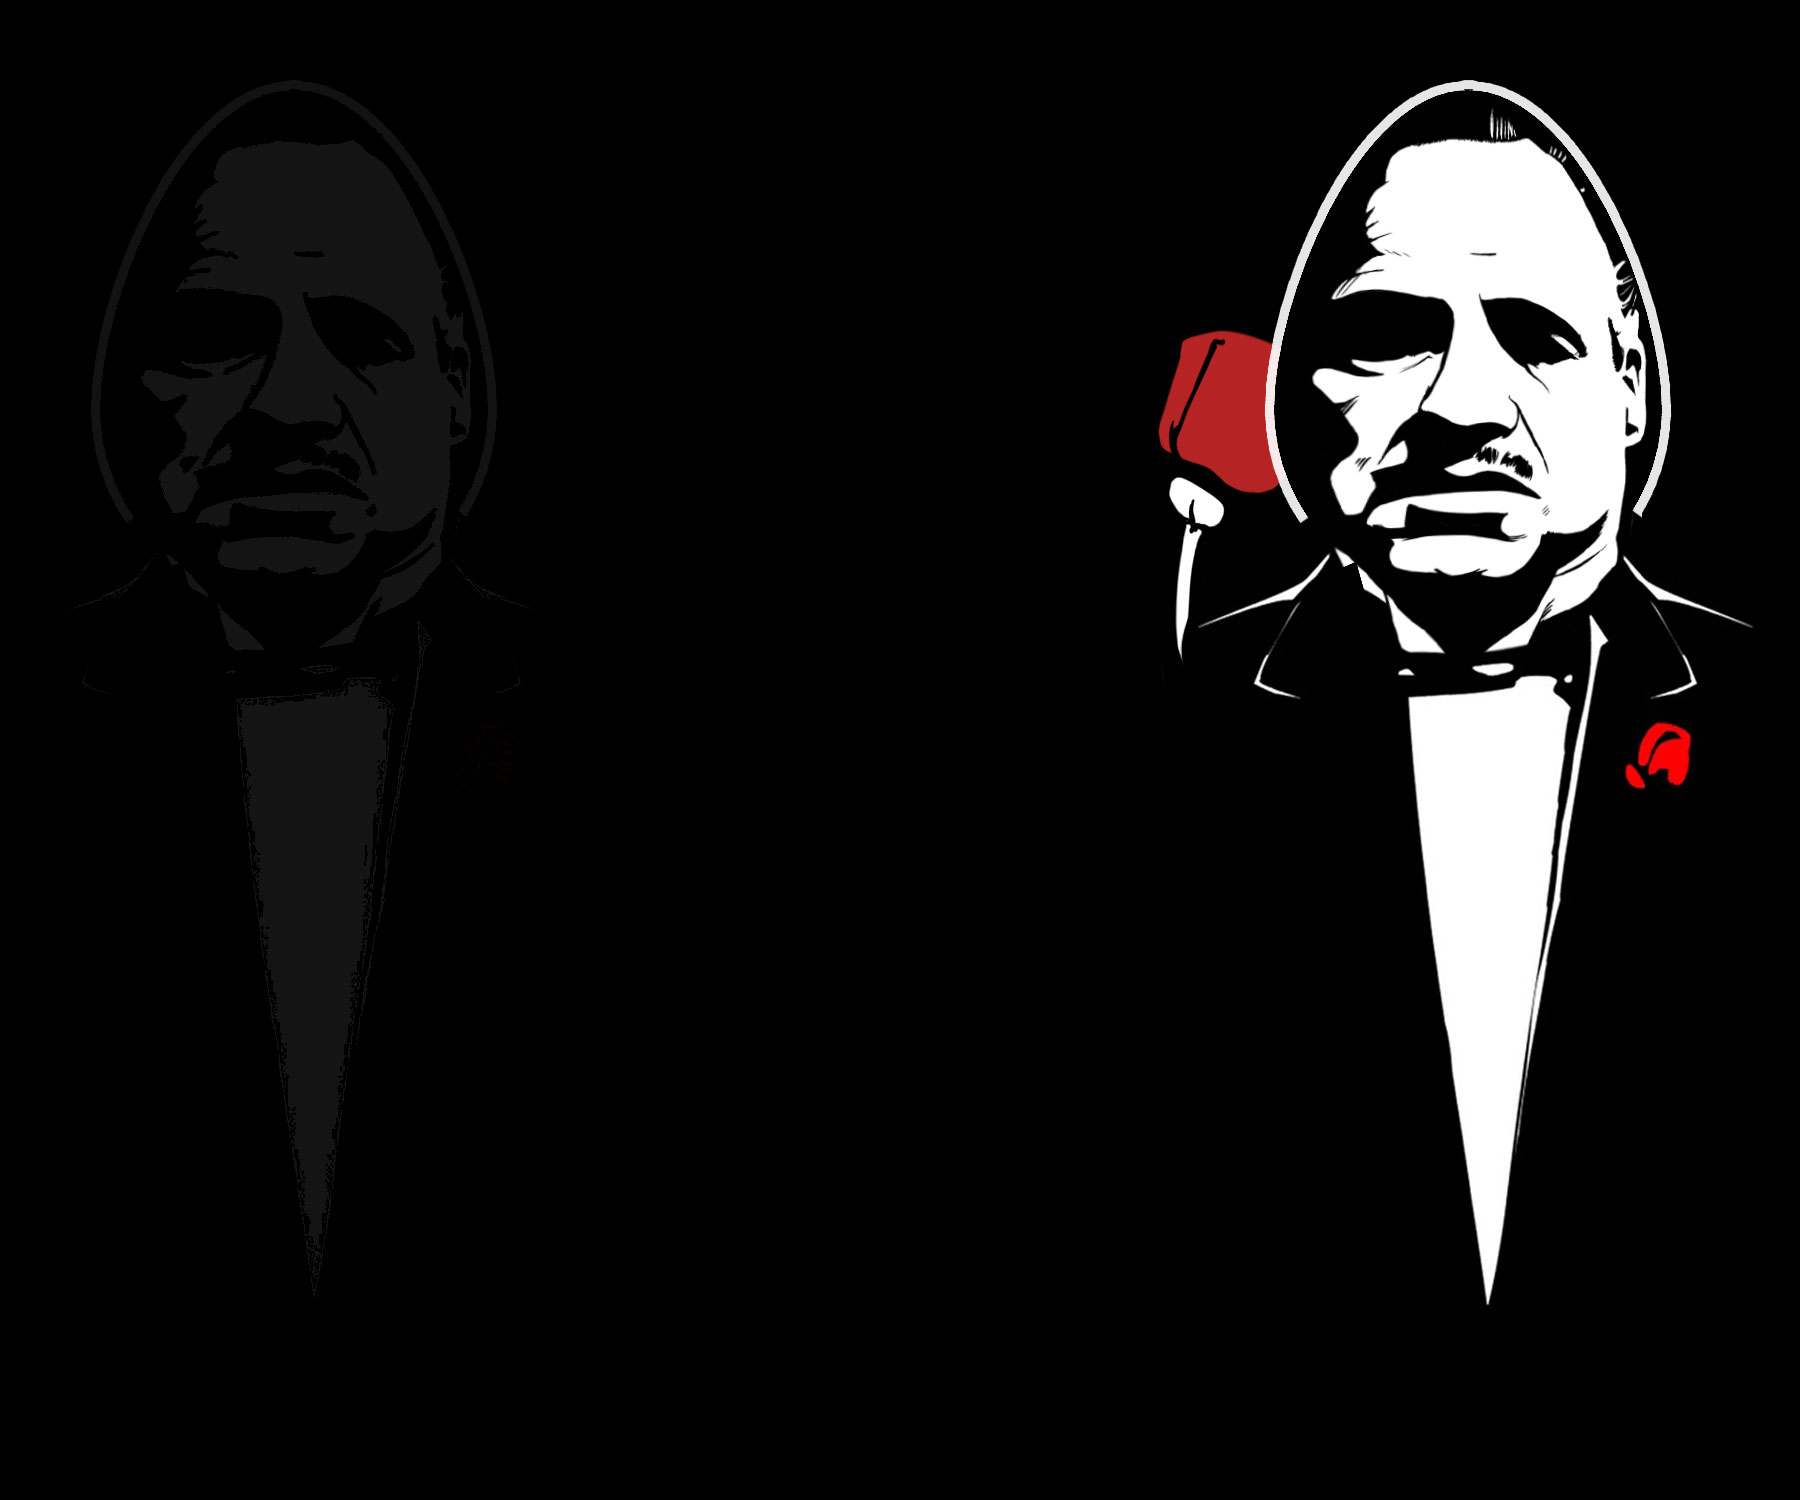
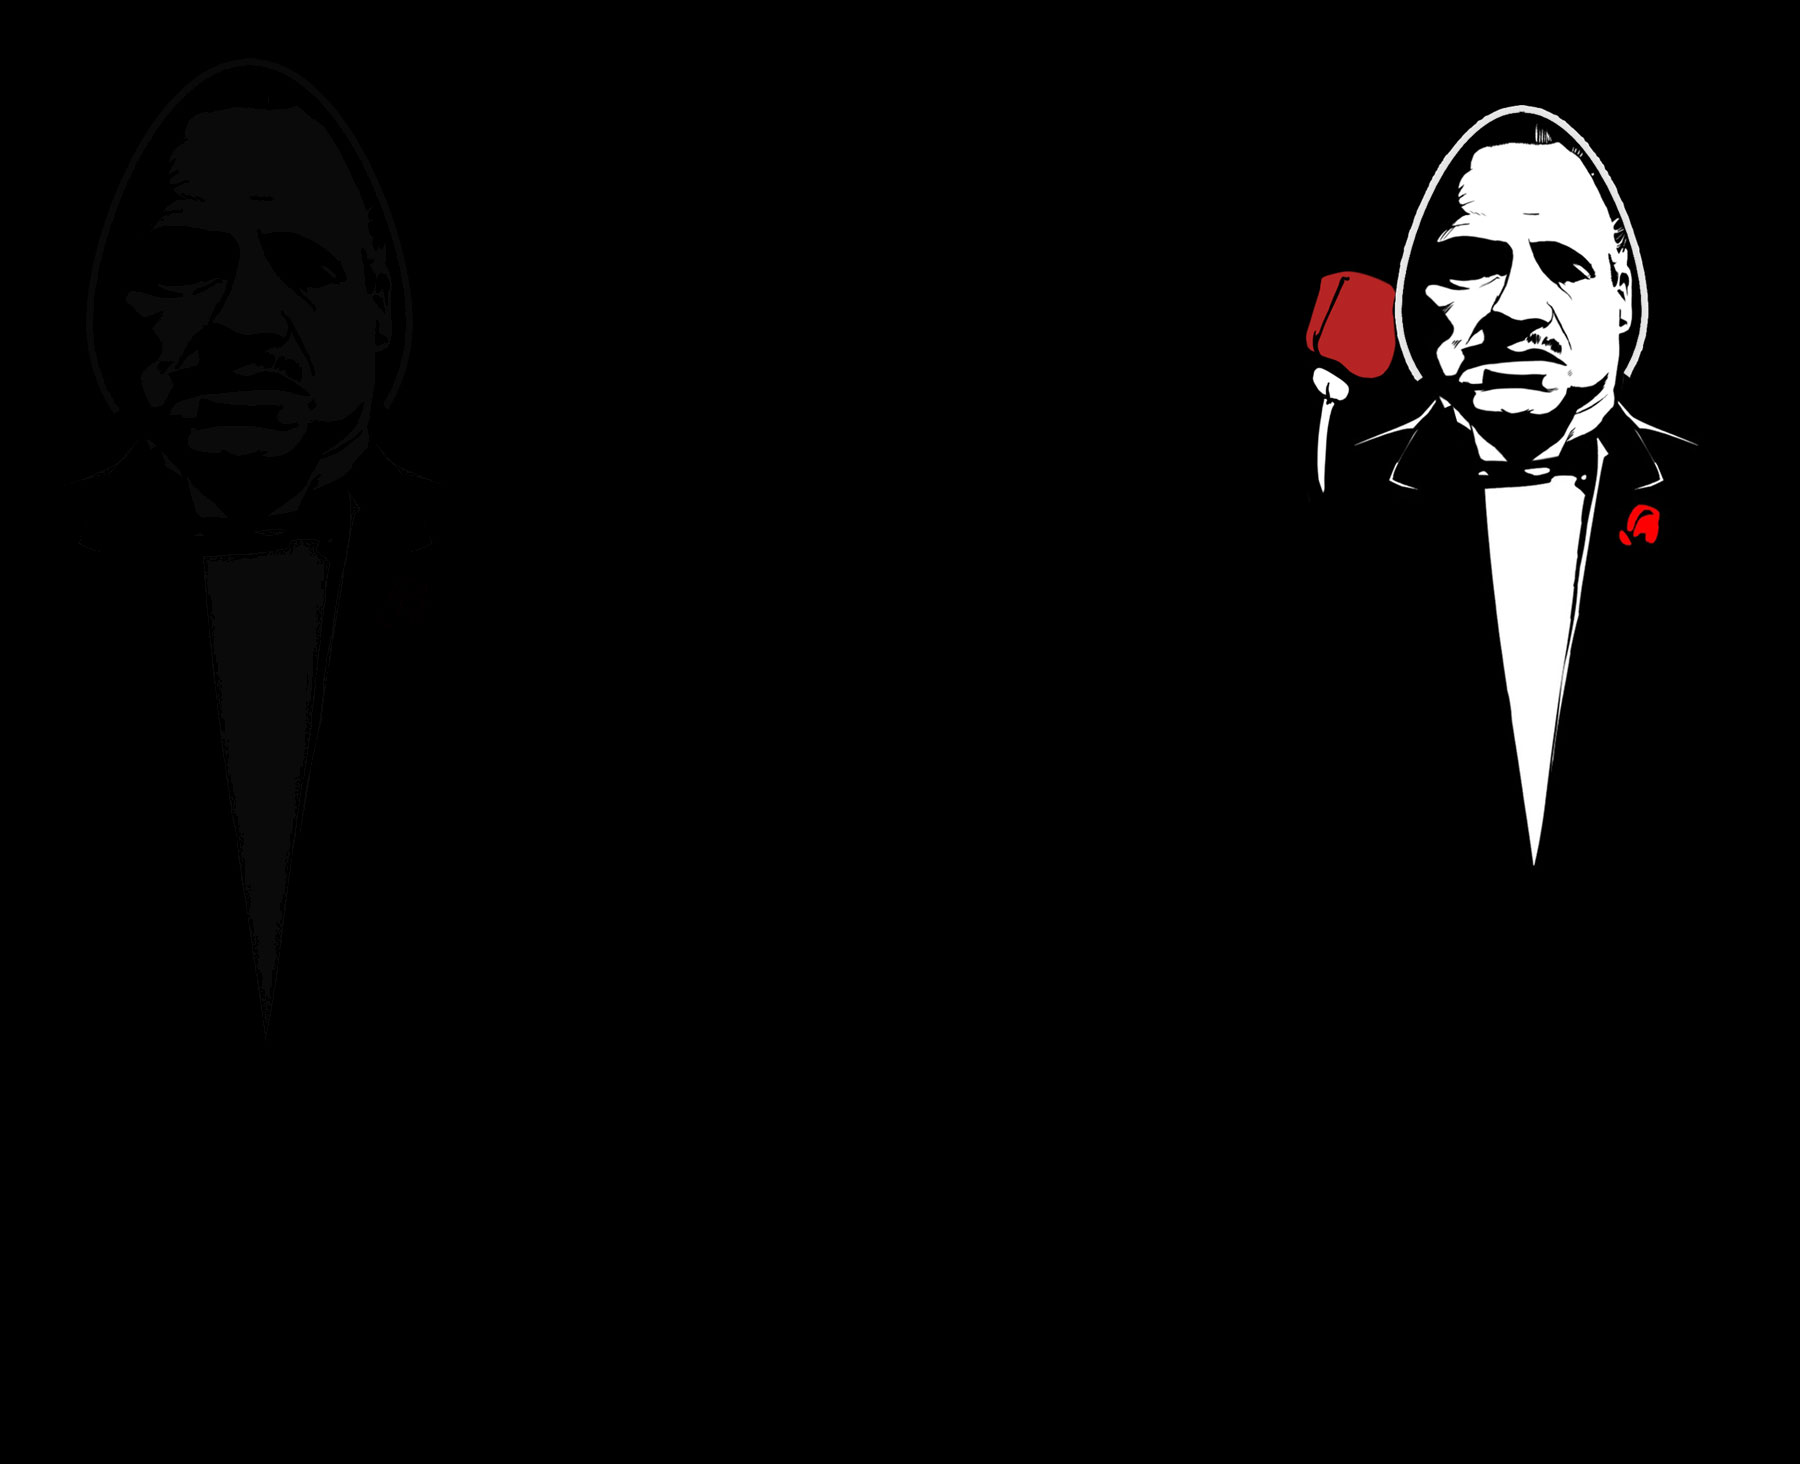
Modificaciones css y bg para que quede mejor

Changed region(s): [[0.6222, 0.0307, 0.9644, 0.8607], [0.9333, 0.3996, 0.9644, 0.4303]]

diff --git a/cucharero/media/css/undum.css b/cucharero/media/css/undum.css
@@ -11,7 +11,11 @@ body {
     font-size: 18px;
     line-height: 1.6em;
     background-attachment: fixed;
-    overflow-y: scroll;
+    /* Full height */
+    height: 100%;
+    /* Center and scale the image nicely */
+    background-repeat: no-repeat;
+    background-size: cover;
 }
 
 
